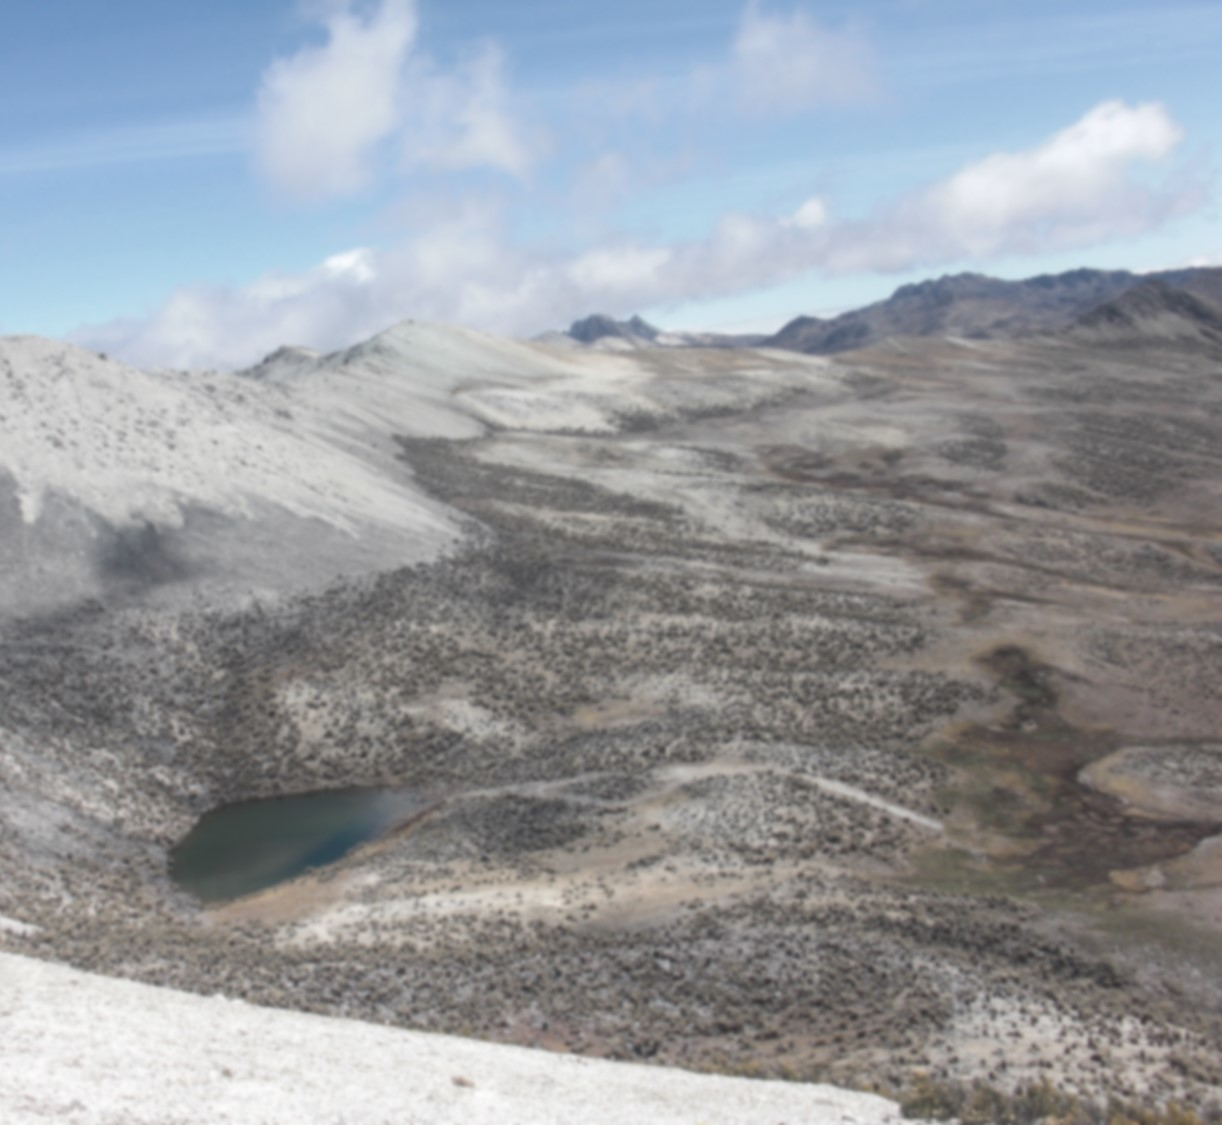
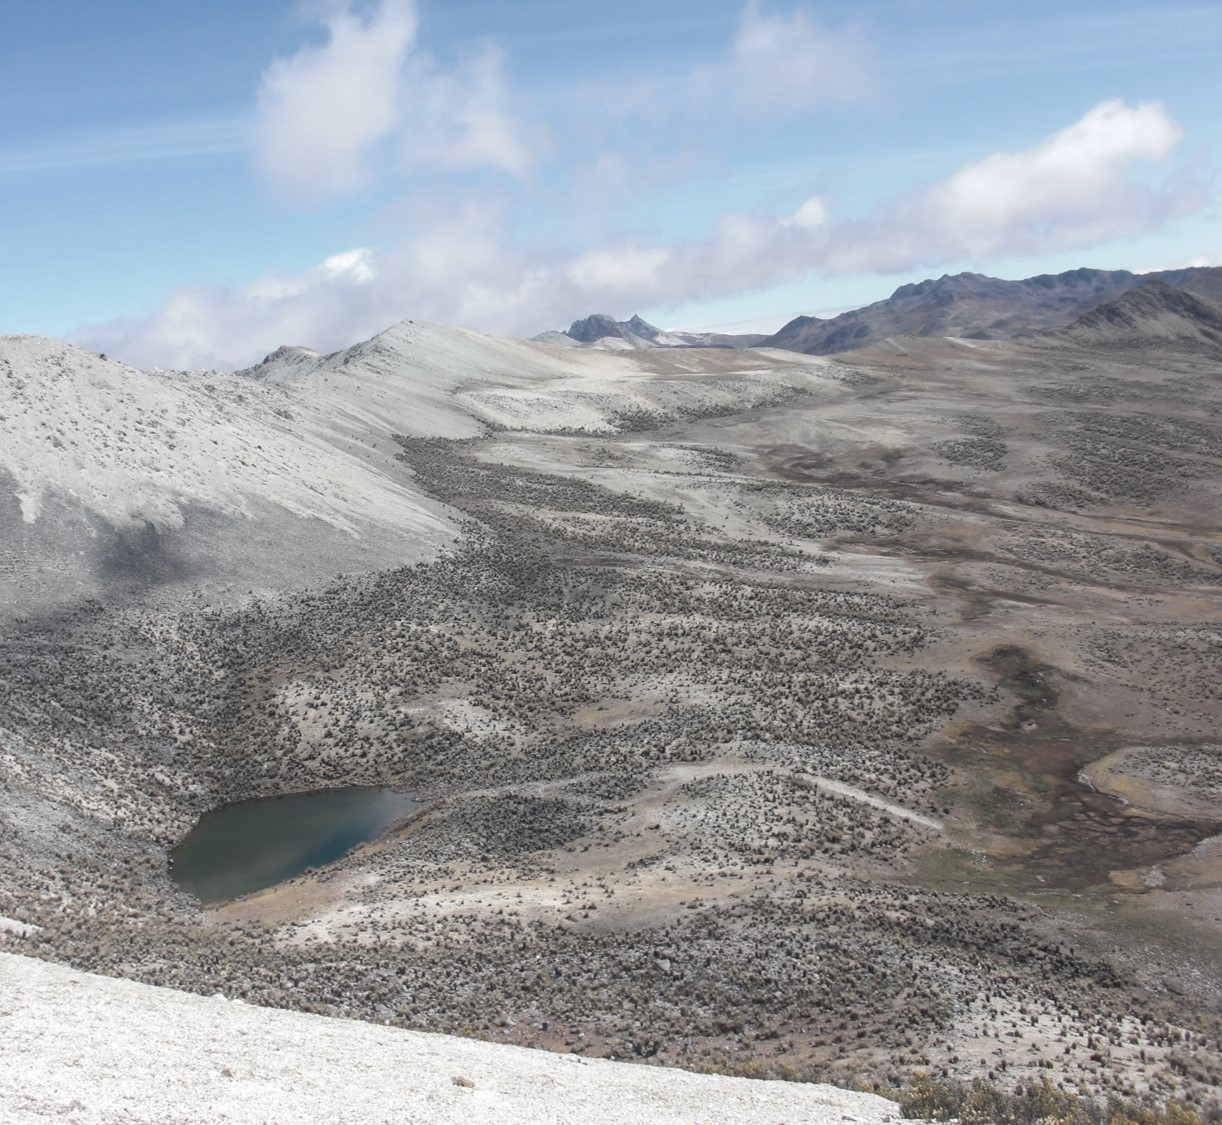
Ajuste de las fotos

diff --git a/main/jobs-projects/jobs-projects.html b/main/jobs-projects/jobs-projects.html
@@ -4,7 +4,7 @@
     
     <meta charset="UTF-8">
     <meta name="viewport" content="width=device-width, initial-scale=1.0">
-    <title>Jobs and Proyects</title>
+    <title>Jobs and Projects</title>
     <link rel="stylesheet" href="css/jobs-projects.css">
     <link rel="stylesheet" href="https://cdnjs.cloudflare.com/ajax/libs/font-awesome/4.7.0/css/font-awesome.min.css">
     <link rel="shortcut icon" type="image/x-icon" href="../web_logo.ico" />
@@ -27,12 +27,57 @@
         <div class="titulo">
             Jobs
         </div>
-        <div class="complement" id='a2'></div>
-        <div class="p" id="a1">
+        
+        <div class="complement"></div>
+        <div class="p">
+
+             <!-- Slideshow container -->
+
+             <div class="slideshow-container">
+
+                <div class='SlidesContainer'>
+                    <div class="mySlides fade">
+                        <img alt='discussion with a judge of the competition'
+                         class="img" src="img/dt/design.jpg" style="width:100%">
+                    </div>
+                    <div class="mySlides fade">
+                        <img alt='presentation of a project with the team'
+                         class="img" src="img/dt/electiva.jpg" style="width:100%">
+                    </div>
+                    <div class="mySlides fade">
+                        <img alt='picture of me during the construction'
+                         class="img" src="img/dt/chasis.jpg" style="width:100%">
+                    </div>
+                    <div class="mySlides fade">
+                        <img alt='picture of me in a meeting'
+                         class="img" src="img/dt/Junta.jpg">
+                    </div>
+                </div>
+                
+                <a class="prev">&#10094;</a>
+                <a class="next">&#10095;</a>
+                <div class="dots" style="text-align:center"></div>
+            </div>
+            
+            <div class='info-job'>
+                <div class="job-grade">Technical Director (FSAE USB)</div>
+                <div class="duration">july 2020 - Now</div><br>
+                <div class="description"> The technical director is in charge of directing and controling the actions regarding the technical divisions of the team. 
+                This position requires good <strong>leadership</strong>, <strong>management</strong> and proper <strong>comunication</strong> with each of the different divisions. <strong>Motorsports</strong>, <strong>vehicle dynamics</strong>, <strong>Computer Aid Design</strong>, 
+                and <strong>Computer Aid Engineering</strong> are some of the technical subjects that this position requires.
+                </div><br>
+                <div class="reference">For more information about the FSAE USB project, you can go to the web 
+                    site:  <a href="http://fsaeusb.com.ve/">fsaeusb.com.ve</a>
+                </div>
+            </div>
+        </div>
+
+        <div class="complement"></div>
+        <div class="p">
 
             <!-- Slideshow container -->
 
-            <div class="slideshow-container">
+            <div class="slideshow-container med med2 min">
 
                 <div class='SlidesContainer'>
                     <div class="mySlides fade">
@@ -52,9 +97,10 @@
                          class="img" src="img/chassis/Construc.jpg">
                     </div>
                     <div class="mySlides fade">
-                        <img alt='picture of me in a meeting'
-                         class="img" src="img/chassis/Junta.jpg">
+                        <img alt='the team doing the checklist'
+                         class="img" src="img/chassis/checklist.jpg">
                     </div>
+                    
                 </div>
                 
                 <a class="prev">&#10094;</a>
@@ -65,64 +111,49 @@
             <div class='info-job'>
                 <div class="job-grade">Chassis Director (FSAE USB)</div>
                 <div class="duration">july 2019 - july 2020</div><br>
-                <div class="description">As chassis director, I was in charged of the administration for the design, 
-                    construction and testing of the frame for the prototype. This work demands the student to
-                    developed skills around teamwork, resource management, engineering design, and other subjects.
+                <div class="description">As chassis director, I was in charge of the design, 
+                    construction and testing of the frame and safety systems of a Formula Students prototype. This work helps the student 
+                    develop skills around <strong>teamwork</strong>, <strong>resource management</strong> and <strong>engineering design</strong>.
                 </div><br>
-                <div class="reference">For more information about the FSAE USB proyect, you can go to the web 
+                <div class="reference">For more information about the FSAE USB project, you can go to the web 
                     site:  <a href="http://fsaeusb.com.ve/">fsaeusb.com.ve</a>
                 </div>
             </div>
-        </div>
 
-        <div class="complement" id='b2'></div>
-        <div class="p" id="b1">
-
-             <!-- Slideshow container -->
-
-             <div class="slideshow-container min med med2">
-
-                <div class='SlidesContainer'>
-                    <div class="mySlides fade">
-                        <img alt='render of the brake system'
-                         class="img" src="img/dt/renderFrenos.jpg" style="width:100%">
-                    </div>
-                </div>
-                
-                <a class="prev">&#10094;</a>
-                <a class="next">&#10095;</a>
-                <div class="dots" style="text-align:center"></div>
-            </div>
-            
-            <div class='info-job'>
-                <div class="job-grade">Technical Director (FSAE USB)</div>
-                <div class="duration">july 2020 - Now</div><br>
-                <div class="description">With the rol of Technical Director, I'm now in charge of the development, construction, 
-                    testing and administration of all issues related to the technical part of FSAE USB. This includes: organization of the mechanical designs of the team, leadership to the technical divisions of the 
-                    project, and other aspects related. This particular year, I'm also responsible for the brakes and chassis divisions.
-                </div><br>
-                <div class="reference">For more information about the FSAE USB proyect, you can go to the web 
-                    site:  <a href="http://fsaeusb.com.ve/">fsaeusb.com.ve</a>
-                </div>
-            </div>
             <!-- Slideshow container -->
-            <div class="slideshow-container max">
-                <!-- Full-width images with number and caption text -->
-                <div class='SlidesContainer'>
 
+            <div class="slideshow-container max">
+
+                <div class='SlidesContainer'>
                     <div class="mySlides fade">
-                        <img class="img" alt='render of the brake system'
-                         src="img/dt/renderFrenos.jpg" style="width:100%">
+                        <img alt='picture of me mechanizing a part in a lathe'
+                         class="img" src="img/chassis/lathe.jpg">
+                    </div>
+                    <div class="mySlides fade">
+                        <img alt='render of a chassis'
+                         class="img" src="img/chassis/Render.jpg">
+                    </div>
+                    <div class="mySlides fade">
+                        <img alt='picture of me during construction of the chassis'
+                         class="img" src="img/chassis/Close.jpg">
+                    </div>
+                    <div class="mySlides fade">
+                        <img alt='picture of the construction itself'
+                         class="img" src="img/chassis/Construc.jpg">
+                    </div>
+                    <div class="mySlides fade">
+                        <img alt='the team doing the checklist'
+                         class="img" src="img/chassis/checklist.jpg">
                     </div>
                 </div>
                 
-                <!-- Next and previous buttons -->
                 <a class="prev">&#10094;</a>
                 <a class="next">&#10095;</a>
-                <!-- The dots/circles -->
-                <div class="dots" style="text-align:center"></div>
+                <div class='dots' style="text-align:center"></div>
             </div>
+
         </div>
+
     </div>
     
     <div id="proyects">
@@ -130,8 +161,8 @@
         <div class="titulo">
             Projects
         </div>
-        <div class="complement" id='c2'></div>
-        <div class="p" id="c1">
+        <div class="complement"></div>
+        <div class="p">
             <!-- Slideshow container -->
             <div class="slideshow-container">
                 <!-- Full-width images with number and caption text -->
@@ -164,11 +195,7 @@
             <div class='info-proy'>
                 <div class="proy-grade">Personal Website</div>
                 <div class="duration">from jun 5 to jul 27</div><br>
-                <div class="description">As I finded my self finishing my career, I wanted to find various options for 
-                    a internships. During the period of quarintine that happend during 2020, I started to learned about 
-                    web development, mainly from curiosity.<br>
-                But, as a personal task to practice my newly developed skills,
-                     I started this proyect along side my friend José, to developed a personal website that served as a more 
+                <div class="description"> During the period of quarantine that happened during 2020, I started to learn about web development, mainly from curiosity. But, as a personal task to practice my newly developed skills, I started this project along side my friend José, to develop a personal website that served as a more 
                      detailed and visual-friendly source of information about my self.
                 </div><br>
                 <div class="reference">This website is the product of our work. If you like, the code is available at 

diff --git a/main/jobs-projects/css/general.css b/main/jobs-projects/css/general.css
@@ -8,6 +8,18 @@ body {
     background-position: right center;
 }
 
+#proyects{
+  background: #0F1014 url('../img/projectos.jpg') no-repeat fixed;
+  background-size: cover;
+  background-position: right center;
+}
+
+#jobs{
+  background: #0F1014 url('../img/jobs.jpg') no-repeat fixed;
+  background-size: cover;
+  background-position: right center;
+}
+
 /* 
 Main
 */
